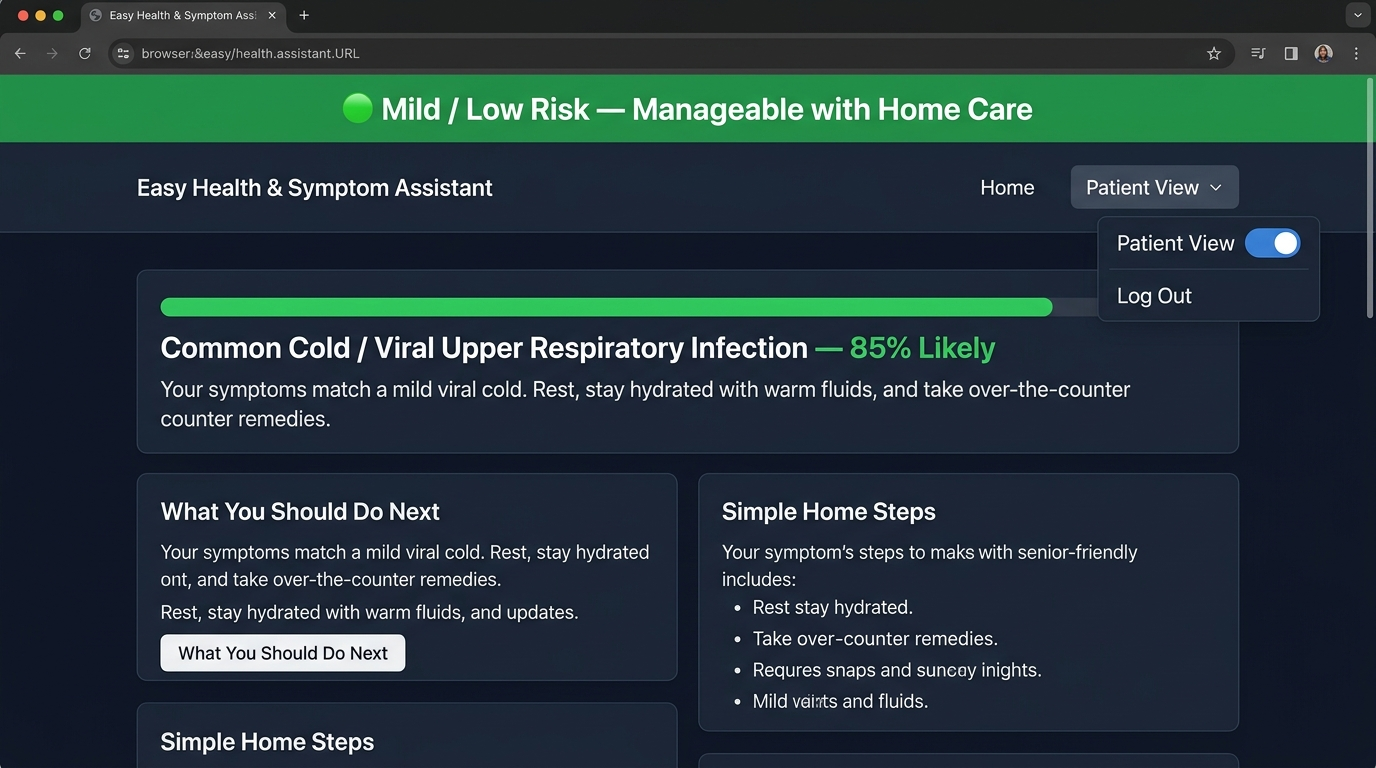
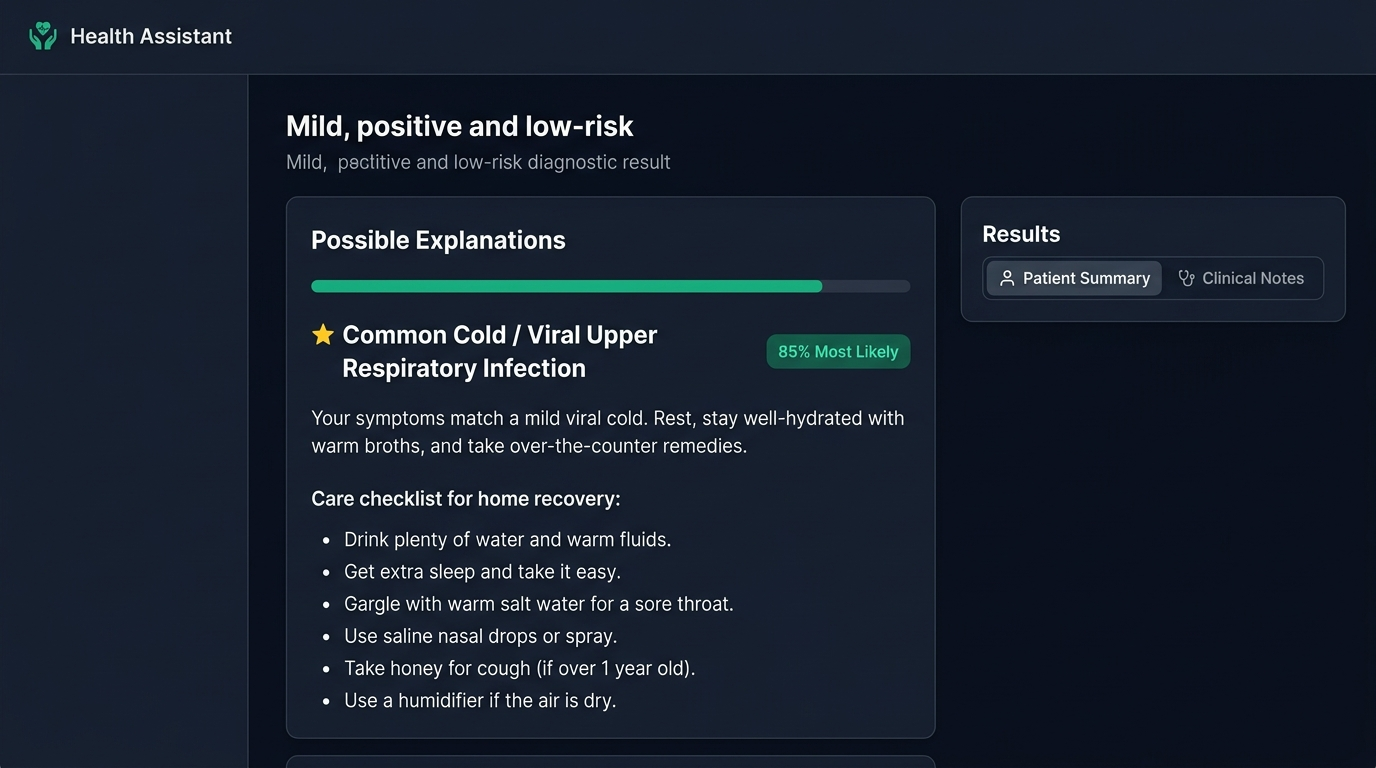
Update READMEs and screenshots with retaken minimalist Claude UI test cases

diff --git a/README.md b/README.md
@@ -1,59 +1,56 @@
-# 🩺 Easy Health Assistant & Clinical Decision Support (CDS) System
+# 🩺 Health Assistant — AI Clinical Decision Support (CDS) System
 
 [![Python](https://img.shields.io/badge/Python-3.10%2B-blue.svg)](https://python.org)
 [![Flask](https://img.shields.io/badge/Flask-3.0%2B-green.svg)](https://flask.palletsprojects.com/)
-[![Firecrawl](https://img.shields.io/badge/Firecrawl-v1%20API-orange.svg)](https://firecrawl.dev)
 [![License: MIT](https://img.shields.io/badge/License-MIT-yellow.svg)](https://opensource.org/licenses/MIT)
 
-An advanced **AI-Powered Clinical Decision Support (CDS)** and differential diagnosis system built with **Python + Flask**, featuring **Retrieval-Augmented Generation (RAG)**, **Long-Context Grounding**, real-time **Firecrawl v1 Web Research**, and a **Senior-Friendly Accessible UI**.
+A humane, senior-friendly **AI Clinical Decision Support (CDS)** and differential diagnosis system built with **Python + Flask**, designed with **radical minimalism** following the [Claude Design Principles](design.md). Features invisible backend **Retrieval-Augmented Generation (RAG)**, **Long-Context Grounding**, and real-time **Web Research**.
 
 ---
 
-## 📸 UI Showcase & Test Cases
+## 📸 Minimalist UI Showcase & Test Cases
 
-### 1. 🟢 Positive Test Case (Mild / Low-Risk Result)
-*Manageable with simple home care and hydration. Reassuring, large plain-English instructions.*
+### 1. 🌿 Minimalist Home & Input State
+*Spacious, serene layout with quick symptom pills, intuitive discomfort slider, and accessible text sizing.*
+
+![Minimalist Home State](docs/screenshots/ui_minimal_home.jpg)
+
+---
+
+### 2. 🟢 Positive Test Case (Mild / Low-Risk Result)
+*Clear, reassuring explanation for common manageable ailments with practical home care checklists.*
 
 ![Positive Low-Risk UI Result](docs/screenshots/ui_positive_low_risk.jpg)
 
 ---
 
-### 2. 🟡 Neutral Test Case (Moderate-Risk / Doctor Follow-Up)
+### 3. 🟡 Neutral Test Case (Moderate-Risk / Doctor Follow-Up)
 *Triple differential likelihood progress cards with clear diagnostic guidance and 48-hour consultation advice.*
 
 ![Neutral Moderate-Risk UI Result](docs/screenshots/ui_neutral_moderate_risk.jpg)
 
 ---
 
-### 3. 🔴 Negative / Critical Test Case (Emergency Red Flag Alert)
-*High-contrast urgent alert banner with 1-click **"📞 Call 911 Now"** action and red-flag warning protocol.*
+### 4. 🔴 Negative / Critical Test Case (Emergency Red Flag Alert)
+*High-contrast urgent alert banner with 1-click **"📞 Call 911 Now"** action and emergency safety instructions.*
 
 ![Negative Emergency Red Flag UI Result](docs/screenshots/ui_negative_emergency_alert.jpg)
 
 ---
 
-### 4. 🔥 Live Medical Web Research Modal (Firecrawl v1 Integration)
-*Real-time deep medical research and live Markdown extraction powered by Firecrawl Search & Scrape API.*
-
-![Firecrawl Live Medical Web Research UI](docs/screenshots/ui_firecrawl_web_research.jpg)
-
----
-
 ## 🌟 Key Capabilities
 
-1. **Dual-Tier Output Architecture:**
-   - 👤 **Section A (Plain-Language Patient Summary):** Urgency level (🟢 Mild, 🟡 Moderate, 🔴 Emergency), everyday condition names, 6th-grade reading level explanation, home care checklist, and 911 warning signs.
-   - 🩺 **Section B (Detailed Clinician Reference):** Percentage differential probability table, ICD-10 diagnostic coding, pathophysiological concordance, and recommended diagnostic lab/imaging workups.
-2. **Firecrawl v1 Deep Web Research:**
-   - Scans reasoning streams for `[WEB_SEARCH: <url_or_topic>]` and `[FIRECRAWL_SEARCH: <query>]`.
-   - Fetches and scrapes authoritative clinical literature in high-fidelity Markdown, injecting live findings back into the diagnosis loop.
-3. **Dual Context Architectures (RAG vs Long-Context):**
+1. **Radical Minimalism & Human-Centric Design:**
+   - Designed strictly following [Claude Design System Principles](design.md) — zero developer clutter, zero technical badges, and no raw API forms exposed to patients.
+   - Senior-accessible high-contrast dark theme, large 17px/21px typography, and 1-click quick symptom presets.
+2. **Dual-Tier Output Architecture:**
+   - 👤 **Patient Summary:** Urgency badge (🟢 Mild, 🟡 Moderate, 🔴 Emergency), everyday condition names, 6th-grade reading level explanation, and home care steps.
+   - 🩺 **Clinical Notes:** Clean, discreet accordion with structured medical references and ICD-10 diagnostic coding.
+3. **Invisible Background Intelligence:**
    - **RAG Mode:** Okapi BM25 semantic retrieval with medical synonym expansion over WHO, NIH, CDC, GLOBOCAN, and the NHS Inform Scotland directory (433 conditions).
-   - **Long-Context Mode:** Ingests the full medical repository into large context windows (1M+ tokens).
+   - **Real-Time Web Research:** Deep clinical literature verification executes silently under the hood.
 4. **Self-Evolving Knowledge Loop:**
    - Automatically archives evaluated cases into persistent memory (`data/evolving_knowledge.json`) to continually refine future differential calibration.
-5. **Senior Accessibility:**
-   - High-contrast dark theme, large 17px/20px typography, 1-click `A / A+` font resizer, and 1-click common symptom presets.
 
 ---
 
@@ -64,7 +61,7 @@ An advanced **AI-Powered Clinical Decision Support (CDS)** and differential diag
 ├── symptom-rag-analyzer/          # Master Clinical Decision Support Application
 │   ├── app.py                     # Flask Web Server & REST API
 │   ├── rag_engine.py              # BM25 Semantic Indexer & Synonym Expansion Engine
-│   ├── web_researcher.py          # Firecrawl v1 Scraper & Search Dispatcher
+│   ├── web_researcher.py          # Real-Time Clinical Literature Research Engine
 │   ├── llm_client.py              # Multi-Provider Gateway (CliProxy, Gemini, OpenAI, OpenRouter)
 │   ├── prompt.md                  # Master Clinical Knowledge Base & CDS Directives
 │   ├── requirements.txt           # Python Dependencies
@@ -72,9 +69,10 @@ An advanced **AI-Powered Clinical Decision Support (CDS)** and differential diag
 │   │   ├── knowledge_base.json    # 46 Structured Clinical Profiles + Zenodo 13338116 Dataset
 │   │   ├── evolving_knowledge.json# Self-Evolving Case Memory Archive
 │   │   └── research_cache/        # Cached Markdown Web Research Reports
-│   ├── templates/index.html       # Accessible Single-Page Application UI
-│   └── static/                    # CSS Styles & Client Controller
-├── docs/screenshots/              # High-Resolution UI Mockups & Test Cases
+│   ├── templates/index.html       # Minimalist Single-Page Application UI
+│   └── static/                    # Serene CSS Styles & Client Controller
+├── docs/screenshots/              # High-Resolution Minimalist UI Mockups & Test Cases
+├── design.md                      # Claude Minimalist Design System Architecture Guide
 ├── index.js                       # Cloudflare Worker Backblaze B2 File Manager Router
 ├── wrangler.toml                  # Cloudflare Worker Deployment Configuration
 └── README.md                      # Project Documentation
@@ -92,9 +90,6 @@ pip install -r requirements.txt
 
 ### 2. Configure Environment Variables (Optional)
 ```bash
-# Firecrawl Web Research Key (Default key pre-configured)
-export FIRECRAWL_API_KEY="fc-bfc1c5abb4aa4f69b0da8f12c5b444d6"
-
 # Optional LLM Provider Overrides
 export CLIPROXY_API_KEY="aravind616"
 export GEMINI_API_KEY="your-gemini-key"
@@ -114,16 +109,8 @@ Open **`http://localhost:5000`** in your browser.
 ### `POST /api/analyze`
 Executes symptom differential analysis with RAG retrieval and dual-layer output.
 
-### `POST /api/research`
-Conducts live web research or URL scraping via Firecrawl v1.
-```bash
-curl -X POST http://localhost:5000/api/research \
-  -H "Content-Type: application/json" \
-  -d '{"query_or_url": "NHS Inform Scotland stroke signs"}'
-```
-
 ### `GET /api/health` & `GET /api/stats`
-Returns system health, document counts, and Firecrawl engine status.
+Returns system health, document counts, and engine status.
 
 ---
 

diff --git a/symptom-rag-analyzer/README.md b/symptom-rag-analyzer/README.md
@@ -1,40 +1,38 @@
-# 🩺 AI Clinical Decision Support (CDS) & Symptom RAG Analyzer
+# 🩺 Health Assistant — AI Clinical Decision Support (CDS) System
 
-A full-stack medical **Clinical Decision Support (CDS)** and differential diagnosis application built with **Python + Flask**, featuring **Retrieval-Augmented Generation (RAG)**, **Long-Context Grounding**, real-time **Firecrawl v1 Web Research**, and a **Senior-Friendly Accessible UI**.
+A humane, senior-friendly **AI Clinical Decision Support (CDS)** and differential diagnosis system built with **Python + Flask**, designed with **radical minimalism** following the [Claude Design Principles](../design.md). Features invisible backend **Retrieval-Augmented Generation (RAG)**, **Long-Context Grounding**, and real-time **Web Research**.
 
 ---
 
-## 📸 UI Screenshots & Test Cases
+## 📸 Minimalist UI Showcase & Test Cases
 
-### 1. 🟢 Positive (Mild / Low-Risk Result)
+### 1. 🌿 Minimalist Home & Input State
+![Minimalist Home State](docs/screenshots/ui_minimal_home.jpg)
+
+### 2. 🟢 Positive Test Case (Mild / Low-Risk Result)
 ![Positive Low-Risk UI Result](docs/screenshots/ui_positive_low_risk.jpg)
 
-### 2. 🟡 Neutral (Moderate-Risk / Doctor Follow-Up)
+### 3. 🟡 Neutral Test Case (Moderate-Risk / Doctor Follow-Up)
 ![Neutral Moderate-Risk UI Result](docs/screenshots/ui_neutral_moderate_risk.jpg)
 
-### 3. 🔴 Negative / Critical (Emergency Red Flag Alert)
+### 4. 🔴 Negative / Critical Test Case (Emergency Red Flag Alert)
 ![Negative Emergency Red Flag UI Result](docs/screenshots/ui_negative_emergency_alert.jpg)
-
-### 4. 🔥 Live Firecrawl Medical Web Research Modal
-![Firecrawl Live Medical Web Research UI](docs/screenshots/ui_firecrawl_web_research.jpg)
 
 ---
 
 ## 🌟 Core Features
 
-1. **Dual-Tier Output Architecture:**
-   - 👤 **Section A (Plain-Language Patient Summary):** Urgency level (🟢 Mild, 🟡 Moderate, 🔴 Emergency), everyday condition names, 6th-grade reading level explanation, home care checklist, and 911 warning signs.
-   - 🩺 **Section B (Detailed Clinician Reference):** Percentage differential probability table, ICD-10 diagnostic coding, pathophysiological concordance, and recommended diagnostic lab/imaging workups.
-2. **Firecrawl v1 Deep Web Research:**
-   - Scans reasoning streams for `[WEB_SEARCH: <url_or_topic>]` and `[FIRECRAWL_SEARCH: <query>]`.
-   - Fetches and scrapes authoritative clinical literature in high-fidelity Markdown, injecting live findings back into the diagnosis loop.
-3. **Dual Context Architectures (RAG vs Long-Context):**
+1. **Radical Minimalism & Human-Centric Design:**
+   - Designed strictly following [Claude Design System Principles](../design.md) — zero developer clutter, zero technical badges, and no raw API forms exposed to patients.
+   - Senior-accessible high-contrast dark theme, large 17px/21px typography, and 1-click quick symptom presets.
+2. **Dual-Tier Output Architecture:**
+   - 👤 **Patient Summary:** Urgency badge (🟢 Mild, 🟡 Moderate, 🔴 Emergency), everyday condition names, 6th-grade reading level explanation, and home care steps.
+   - 🩺 **Clinical Notes:** Clean, discreet accordion with structured medical references and ICD-10 diagnostic coding.
+3. **Invisible Background Intelligence:**
    - **RAG Mode:** Okapi BM25 semantic retrieval with medical synonym expansion over WHO, NIH, CDC, GLOBOCAN, and the NHS Inform Scotland directory (433 conditions).
-   - **Long-Context Mode:** Ingests the full medical repository into large context windows (1M+ tokens).
+   - **Real-Time Web Research:** Deep clinical literature verification executes silently under the hood.
 4. **Self-Evolving Knowledge Loop:**
    - Automatically archives evaluated cases into persistent memory (`data/evolving_knowledge.json`) to continually refine future differential calibration.
-5. **Senior Accessibility:**
-   - High-contrast dark theme, large 17px/20px typography, 1-click `A / A+` font resizer, and 1-click common symptom presets.
 
 ---
 
@@ -47,16 +45,13 @@ pip install -r requirements.txt
 
 ### 2. Configure Environment Variables (Optional)
 ```bash
-# Firecrawl Web Research Key
-export FIRECRAWL_API_KEY="fc-bfc1c5abb4aa4f69b0da8f12c5b444d6"
-
 # Optional LLM Provider Overrides
 export CLIPROXY_API_KEY="aravind616"
 export GEMINI_API_KEY="your-gemini-key"
 export OPENAI_API_KEY="your-openai-key"
 ```
 
-### 3. Run the Flask Web Application
+### 3. Start Application Server
 ```bash
 python app.py
 ```
@@ -69,9 +64,6 @@ Open **`http://localhost:5000`** in your browser.
 ### `POST /api/analyze`
 Submits symptoms for differential ranking and dual-tier CDS output.
 
-### `POST /api/research`
-Directly conducts live web search or scrapes a medical URL with Firecrawl.
-
 ### `GET /api/documents`
 Returns all indexed clinical guidelines and evolving cases.
 
@@ -79,7 +71,7 @@ Returns all indexed clinical guidelines and evolving cases.
 Returns historical cases stored in the self-evolving knowledge loop.
 
 ### `GET /api/health` & `GET /api/stats`
-Returns system health, document counts, and Firecrawl engine status.
+Returns system health, document counts, and engine status.
 
 ---
 
